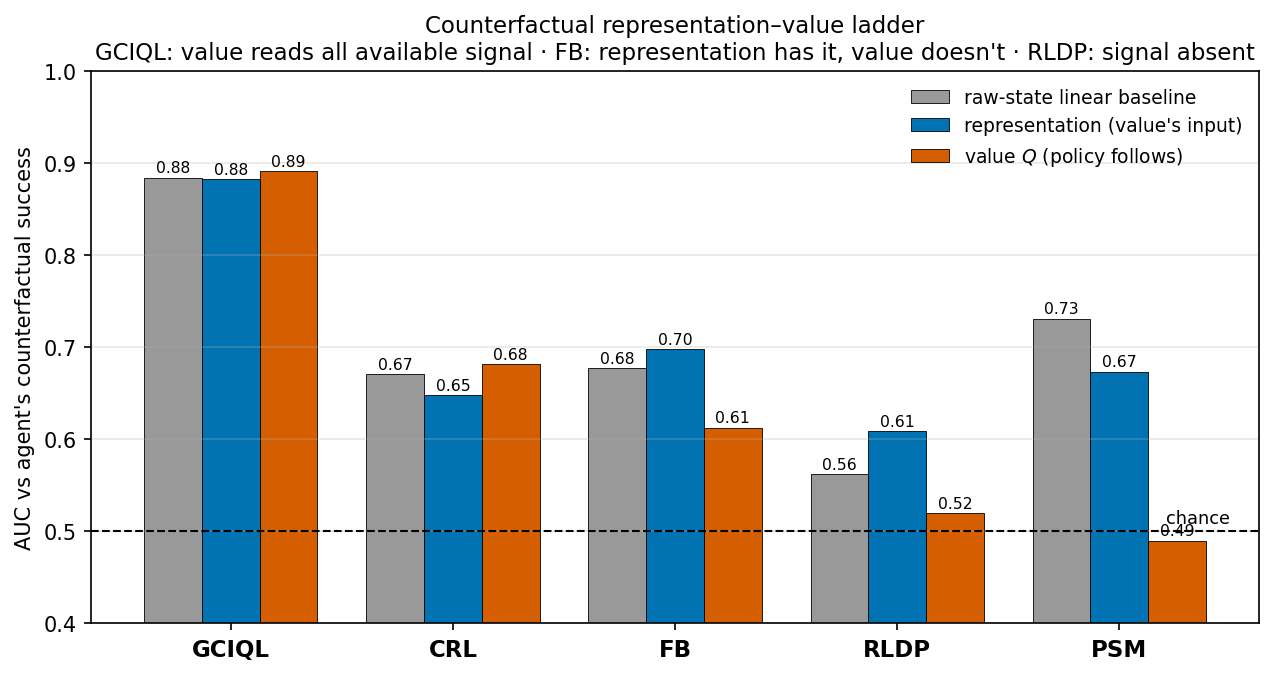
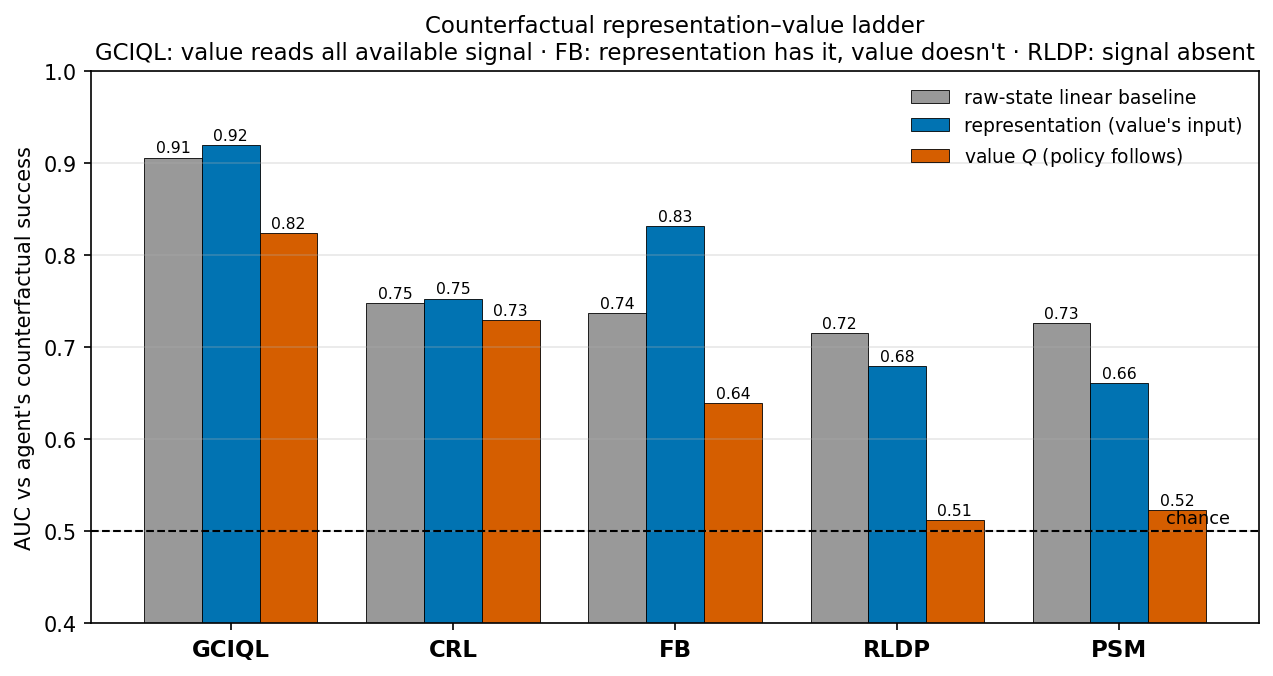
docs(rlbrew): recompute counterfactual value on flow actor (K=10) + figure/table consistency
Recompute tab:cf_value and the §5.3 value-ranking analysis on the FQL-BC (flow)
checkpoints with K=10 continuation labels (the flow policy is stochastic, so a
single rollout is a noisy draw). The paper's old 0.89 GCIQL cf-value came from the
DDPG+BC (non-flow) checkpoint; the flow-consistent value is 0.82. Full 5-method
table + representation-value ladder updated (fb readout 0.83 vs value 0.64, etc.).

- Regenerate fig_cf_value_curve_new / fig_cf_ladder_new from the K=10 records.
- Harmonize phase labels across figures/text: outcomes "Grasp fail" -> "Control-acq.
  fail"; funnel axis -> Approach / Control acquisition / Maintain control / Transport.
- Sync figure-script OUTCOMES + SUPPORT_DELTA to the appendix tables (fixes a stale
  non-flow dict that would have regressed the numbers on re-run); fb pickup Tf-S 0.25.
- Narrative edits to conclusion / related-work / theory.

diff --git a/PAPER/rlbrew/content/related-work.tex b/PAPER/rlbrew/content/related-work.tex
@@ -2,19 +2,20 @@
 \label{sec:related}
 
 \paragraph{Unsupervised and goal-conditioned RL.}
-URL methods learn reusable control objects in a reward-free or reward-agnostic phase and reuse them for downstream goals.
-Goal-conditioned methods learn values or policies indexed by target states~\citep{eysenbach-iclr21a,ma-neurips22a}, while contrastive and metric-based methods learn state-goal scores or representations that distinguish future states from negatives~\citep{eysenbach-neurips22a,wang-icml23a,park-iclr24a}.
-Successor representations, successor features, and FB representations estimate future-occupancy objects that can be combined with downstream rewards~\citep{dayan-nc93a,barreto-neurips17a,touati-neurips21a,touati-iclr23a}.
+URL methods learn policies, values, or representations in a reward-free or reward-agnostic phase and reuse them for downstream goals.
+Goal-conditioned methods learn values or policies indexed by target states~\citep{eysenbach-iclr21a,ma-neurips22a}, while contrastive and metric-based methods learn goal-conditioned values or representations by distinguishing future states from negatives~\citep{eysenbach-neurips22a,wang-icml23a,park-iclr24a}.
+Successor representations, successor features, and FB representations estimate future-state occupancy that can be combined with downstream rewards~\citep{dayan-nc93a,barreto-neurips17a,touati-neurips21a,touati-iclr23a}.
 Proto-value and proto-successor methods instead use learned bases or spectral structure to represent behavior or value spaces~\citep{mahadevan-icml05a,mahadevan-jmlr07a,farebrother-iclr23a,agarwal-arxiv25a}.
-Recent work has argued that many URL objectives can be viewed as tractable approximations to successor measures or future-reachability objects~\citep{agarwal-rlj25a}.
-Our work uses this view diagnostically: we ask whether these learned objects preserve local interaction modes that change successor structure, rather than proposing a new URL objective.
+Recent work has argued that many URL objectives can be viewed as tractable approximations to successor measures~\citep{agarwal-rlj25a}.
+Our work uses this view diagnostically: we ask whether learned values and representations distinguish interaction states that change future occupancy,
+rather than proposing a new URL objective.
 
 \paragraph{Structured and controllable representations.}
 Classical factored MDP work exploits state structure to make planning and learning more efficient~\citep{boutilier-ijcai95a,kearns-ijcai99a,guestrin-jair03a}; see also \cite{mohan-jair24a}.
 More recent controllable-representation methods aim to preserve action-relevant state information, often through inverse or multi-step inverse dynamics objectives~\citep{efroni-iclr22a,lamb-arxiv22a,levine-arxiv24a,rudolph-rlc24a}.
-These works are closely related to our interaction-mode view: the relevant abstraction should retain variables that change how actions affect future states.
+These works are closely related to our interaction-state hypothesis: the relevant abstraction should retain variables that change how actions affect future states.
 Our contribution is different in scope.
-We do not learn a new abstraction or assume a known factorization; instead, we diagnose whether existing state-based URL scores collapse observation-near states whose long-horizon futures differ because of local interaction variables.
+We do not learn a new abstraction or assume a known factorization; instead, we diagnose whether existing state-based URL methods map nearby states with different long-horizon futures to similar representations or values.
 
 \paragraph{Contact-rich dynamics and manipulation.}
 Contact-rich manipulation is a canonical setting where local interaction variables change effective dynamics.
@@ -22,10 +23,10 @@ Classical work on pushing and manipulation emphasizes that contact mode, frictio
 Trajectory-optimization and contact-implicit methods explicitly model or optimize through contact transitions~\citep{posa-ijrr14a,manchester-isrr17a,patel-ral19a,aceituno-rss20a,jin-arxiv24a}.
 Learning-based contact models also study the difficulty of representing discontinuous or hybrid contact dynamics~\citep{hogan-arxiv16a,pfrommer-corl20a}.
 Our paper does not propose a contact model.
-Instead, we use contact-rich cube manipulation as a controlled diagnostic for a broader URL question: whether learned future-reachability scores preserve interaction-conditioned successor distinctions.
+Instead, we use contact-rich cube manipulation as a controlled diagnostic for a broader URL question: whether learned values and representations distinguish grasp states with different future occupancies.
 
 \paragraph{Offline goal-conditioned benchmarks and diagnostics.}
 Offline goal-conditioned RL evaluates whether policies or representations learned from static data can solve downstream goals without additional online collection~\citep{kostrikov-iclr22a,ma-neurips22a,park-iclr25a}.
 Benchmarks such as \ogbench{} report aggregate goal-reaching success, which is useful for comparing algorithms but does not identify the physical stage at which a policy fails~\citep{park-iclr25a}.
 Our diagnostic decomposes manipulation rollouts into approach, control acquisition, maintained control, and transport.
-This separates coarse reachability from the local interaction transition and from the ability to preserve and exploit that interaction regime.
+This separates approach and control acquisition from the ability to maintain control and transport the object.

diff --git a/PAPER/rlbrew/content/results.tex b/PAPER/rlbrew/content/results.tex
@@ -81,19 +81,19 @@ Each grasp is evaluated independently, and the probe covers states from the offl
 We then plot success rate as a function of the learned value percentile.
 We summarize ranking quality using rank-AUC, the probability that a successful grasp state receives a higher value than an unsuccessful grasp state.
 Because the success labels are generated separately under each method's own policy, this probe measures whether a method's value is consistent with its own downstream outcomes rather than comparing all methods against a single shared target.
-\gciql{}'s value is strongly predictive (rank-AUC $0.89$): its top-value grasps succeed ${\approx}99\%$ of the time, its bottom-value grasps ${\approx}27\%$.
-For \rldp{} and \psm{}, the curves are nearly flat (AUC $0.52$ and $0.49$), indicating that higher values do not correspond to higher success rates.
-\fb{} shows a weaker relationship (AUC approximately $0.61$), while \crl{} is intermediate ($0.68$).
+\gciql{}'s value is the most predictive (rank-AUC $0.82$): its top-value grasps succeed ${\approx}99\%$ of the time, its bottom-value grasps ${\approx}54\%$.
+For \rldp{} and \psm{}, the curves are nearly flat (AUC $0.51$ and $0.52$), indicating that higher values do not correspond to higher success rates.
+\fb{} shows a weaker relationship (AUC approximately $0.64$), while \crl{} is intermediate ($0.73$).
 For \fb{} and \rldp{}, the learned value is therefore only weakly informative about whether the policy will maintain control and complete the task.
 
 We next ask whether the weak ranking arises in the learned representation or in the scalar value derived from it.
 Using each agent's simulator-reset success labels, we fit a linear readout from the learned representation and compare its ranking with that of the learned value (Appendix~\ref{app:tables}, Figure~\ref{fig:cf_ladder}).
 The probe suggests different bottlenecks for \fb{}, \rldp{}, and \psm{}.
-\fb{} is consistent with a readout bottleneck: a linear readout of its forward map reaches AUC 0.70, while its learned scalar value reaches 0.61.
+\fb{} is consistent with a readout bottleneck: a linear readout of its forward map reaches AUC 0.83, while its learned scalar value reaches only 0.64.
 \rldp{} is consistent with a representation bottleneck: the best readout reaches only
-0.61, and its learned value reaches 0.52.
-\psm{} shows the largest collapse from the raw-state baseline to the learned value: although its backward embedding resolves cube-to-goal geometry best of any method (nonlinear $R^2$ $0.90$; Table~\ref{tab:geometry_control}), a linear readout of the representation its value uses does not exceed the raw-state baseline for counterfactual success ($0.67$ versus $0.73$), and the value itself ranks near chance ($0.49$). Resolving cube-to-goal geometry therefore does not imply that the representation encodes which grasps the policy will keep.
-For \gciql{}, the learned value preserves nearly all of the linearly decodable signal available in its value features, reaching AUC $0.89$.
+0.68, barely above the raw-state baseline ($0.72$), and its learned value reaches 0.51.
+\psm{} shows the same pattern more sharply: although its backward embedding resolves cube-to-goal geometry best of any method (nonlinear $R^2$ $0.90$; Table~\ref{tab:geometry_control}), a linear readout of the representation its value uses does not exceed the raw-state baseline for counterfactual success ($0.66$ versus $0.73$), and the value itself ranks near chance ($0.52$). Resolving cube-to-goal geometry therefore does not imply that the representation encodes which grasps the policy will keep.
+For \gciql{}, the learned value retains most of the linearly decodable signal available in its value features (readout $0.92$, value $0.82$), the strongest value ranking under this diagnostic.
 
 These probes suggest that weak ranking can arise either in the learned representation or in the scalar readout, but they do not identify the readout form as the sole cause.
 \gciql{} differs from \fb{}, \crl{}, \rldp{}, and \psm{} in objective, actor training, critic architecture, implicit regularization, and optimization stability, not only in its value readout.

diff --git a/PAPER/rlbrew/content/appendix.tex b/PAPER/rlbrew/content/appendix.tex
@@ -112,17 +112,17 @@ Because the labels are generated separately under each method's own policy, the 
 
 \begin{table}[H]
 \centering
-\caption{On-policy counterfactual value test. We reset $200$ in-hand grasp states in the simulator, roll out each agent's own policy, and report the learned value's rank-AUC against the agent's own success, computed per goal and averaged across goals, together with the mean counterfactual success rate.}
+\caption{On-policy counterfactual value test. We reset $200$ in-hand grasp states in the simulator and roll out each agent's own (flow) policy for $K=10$ independent continuations per grasp, labeling the grasp by the fraction that reaches the goal (the flow policy is stochastic, so a single rollout is a noisy draw). We report the learned value's rank-AUC against this success label, computed per goal, averaged across goals and across the method's flow-actor training seeds ($9$--$10$ seeds), together with the mean counterfactual success rate.}
 \label{tab:cf_value}
 \begin{tabular}{lcc}
 \toprule
 \textbf{Method} & \textbf{Counterfactual rank-AUC} & \textbf{Counterfactual success rate} \\
 \midrule
-\gciql{} & $0.89$ & $0.66$ \\
-\crl{}   & $0.68$ & $0.38$ \\
-\fb{}    & $0.61$ & $0.55$ \\
-\rldp{}  & $0.52$ & $0.21$ \\
-\psm{}   & $0.49$ & $0.32$ \\
+\gciql{} & $0.82$ & $0.79$ \\
+\crl{}   & $0.73$ & $0.37$ \\
+\fb{}    & $0.64$ & $0.54$ \\
+\rldp{}  & $0.51$ & $0.23$ \\
+\psm{}   & $0.52$ & $0.23$ \\
 \bottomrule
 \end{tabular}
 \end{table}
@@ -134,6 +134,6 @@ preserves that information in its ranking.
 \begin{figure}[H]
 \centering
 \includegraphics[width=0.8\linewidth]{fig_cf_ladder_new.png}
-\caption{Counterfactual representation--value ladder. For each method, the probe uses the agent's own counterfactual success as the label. We compare a raw-state linear baseline, the best linear readout of the representation used by the scalar value (\gciql{} penultimate value features; \crl{} $\phi(s,\pi)$; \fb{}/\rldp{}/\psm{} the successor-feature map $F(s,\pi,z)$, which for \psm{} is $\psi(s,\pi,z)$), and the learned value's own ranking. \gciql{} preserves nearly all linearly decodable signal available in its value features; \fb{} contains more signal in $F$ than is reflected in the learned scalar value; \rldp{} contains weaker signal under this probe; \psm{} resolves cube-to-goal geometry best (Table~\ref{tab:geometry_control}) yet its representation readout does not exceed the raw baseline and its value ranks near chance. The raw baseline is per-agent because counterfactual success depends on each policy, so the cleanest comparison is within method.}
+\caption{Counterfactual representation--value ladder. For each method, the probe uses the agent's own counterfactual success as the label. We compare a raw-state linear baseline, the best linear readout of the representation used by the scalar value (\gciql{} penultimate value features; \crl{} $\phi(s,\pi)$; \fb{}/\rldp{}/\psm{} the successor-feature map $F(s,\pi,z)$, which for \psm{} is $\psi(s,\pi,z)$), and the learned value's own ranking. \gciql{} retains most of the linearly decodable signal available in its value features; \fb{} contains more signal in $F$ than is reflected in the learned scalar value; \rldp{} contains weaker signal under this probe; \psm{} resolves cube-to-goal geometry best (Table~\ref{tab:geometry_control}) yet its representation readout does not exceed the raw baseline and its value ranks near chance. The raw baseline is per-agent because counterfactual success depends on each policy, so the cleanest comparison is within method.}
 \label{fig:cf_ladder}
 \end{figure}

diff --git a/PAPER/rlbrew/content/theory.tex b/PAPER/rlbrew/content/theory.tex
@@ -4,10 +4,10 @@
 We now formalize the interaction-state hypothesis behind our analysis.
 Because the interaction state is part of the full physical state, the exact successor measure reflects its effect on future occupancy.
 Approximation error can arise when the physical state is compressed into an observation or learned representation.
-Let $y=\Omega(\tilde{s})$ denote the state encoding used by the policy or value function, and let $\iota(\tilde{s})$ denote the local interaction state, such as whether an object is freely moving, stably held, or slipping.
+Let $\tilde{s}\in\widetilde{\mathcal S}$ denote the full physical state, and let $y=\Omega(\tilde{s})$ denote the state encoding used by the policy or value function, with $\iota(\tilde{s})$ denoting the local interaction state, such as whether an object is freely moving, stably held, or slipping.
 Here, $\Omega$ may denote either the observation map or a learned representation.
-Two full states can be nearby in observation space while having different interaction states and therefore different successor measures.
-The relevant question is which interaction-state distinctions are lost in the observation, learned representation, or values.
+Two full states can be nearby in representation space while having different interaction states and therefore different successor measures.
+The relevant question is which interaction-state distinctions are lost in the learned representation, and corresponding value-functions.
 We illustrate this distinction by describing how interaction state changes the transition dynamics.
 
 \subsection{Interaction-dependent transition dynamics}
@@ -91,7 +91,7 @@ Thus, if stable and unstable grasp states receive the same observation or repres
 Overestimating unstable grasp states can cause the actor to prefer actions that lift the cube but do not maintain control during transport.
 
 This information loss may occur either in the learned representation or in the scalar readout.
-A bilinear value can express the distinction only if the representation encodes the relevant interaction-state information and the task-conditioned readout uses it.
+A bilinear value parameterization can express the distinction  only if the representation encodes the relevant interaction-state information and the task-conditioned readout uses it.
 Our empirical probes therefore ask whether the learned representation contains information about task success from in-hand grasp states and whether the scalar value preserves that information.
 
 \subsection{Instantiation in cube manipulation}
@@ -110,7 +110,7 @@ For goal $g$, we use the task-specific event
         \tilde{s}_H\in G_g
     \},
 \end{equation}
-where $A$ is the reaching set, $C$ is the control-acquisition set, $R$ is the final-retention set, and $G_g$ is the goal set.
+where $\tau_A=\inf\{t:\tilde{s}_t\in A\}$, $A$ is the reaching set, $C$ is the control-acquisition set, $R$ is the final-retention set, and $G_g$ is the goal set.
 The corresponding task-success probability is
 \begin{equation}
     u^\pi_H(\tilde{s},a;g) = \Pr_\pi
@@ -123,5 +123,3 @@ The corresponding task-success probability is
         \tilde{s}_0=\tilde{s},a_0=a
     \right).
 \end{equation}
-where $\tau_A=\inf\{t:\tilde{s}_t\in A\}$, $A$ is the reaching set, $C$ is the control-acquisition set, $R$ is the final-retention set, and $G_g$ is the goal set.
-A maintain-control failure means that the policy satisfied the control-acquisition criterion but did not end the episode with the cube above the retention threshold.

diff --git a/scripts/figures/plot_rlbrew_figures.py b/scripts/figures/plot_rlbrew_figures.py
@@ -46,16 +46,18 @@ def _present(d):
     have been filled in, without breaking panels that still lack it."""
     return [m for m in METHODS if m in d]
 
-# S0 terminal-outcome distribution (% episodes, mean over seeds).
+# Terminal-outcome distribution (% episodes, mean over seeds).
+# Values are the paper-canonical numbers in Table~tab:cross_method_outcomes
+# (flow actor, 1M); keep in sync with that table.
 OUTCOMES = {
-    "FB":    {"success": 49.4, "approach": 0.0, "grasp": 9.8,  "maintain": 23.8, "transport": 17.0},
-    "GCIQL": {"success": 69.2, "approach": 0.2, "grasp": 12.2, "maintain": 9.2,  "transport": 9.2},
-    "CRL":   {"success": 23.2, "approach": 0.4, "grasp": 23.8, "maintain": 28.6, "transport": 24.0},
-    "RLDP":  {"success": 25.4, "approach": 0.2, "grasp": 9.6,  "maintain": 44.0, "transport": 20.8},
-    "PSM":   {"success": 38.4, "approach": 1.0, "grasp": 19.2, "maintain": 35.4, "transport": 6.0},
+    "FB":    {"success": 49.4, "approach": 0.0, "grasp": 8.7,  "maintain": 24.9, "transport": 17.0},
+    "GCIQL": {"success": 73.7, "approach": 0.0, "grasp": 11.9, "maintain": 7.8,  "transport": 6.7},
+    "CRL":   {"success": 25.0, "approach": 0.9, "grasp": 25.2, "maintain": 26.3, "transport": 22.6},
+    "RLDP":  {"success": 21.3, "approach": 0.1, "grasp": 14.7, "maintain": 43.8, "transport": 20.1},
+    "PSM":   {"success": 37.3, "approach": 0.8, "grasp": 20.5, "maintain": 36.4, "transport": 5.0},
 }
 OUTCOME_KEYS = ["success", "approach", "grasp", "maintain", "transport"]
-OUTCOME_LAB = ["Success", "Approach fail", "Grasp fail", "Maintain fail", "Transport fail"]
+OUTCOME_LAB = ["Success", "Approach fail", "Control-acq. fail", "Maintain fail", "Transport fail"]
 # keep the semantics (success=green, maintain=vermillion, transport=blue, ...)
 # but draw from the colorblind palette
 OUTCOME_COL = {"success": _CB[2], "approach": _CB[4], "grasp": _CB[1],
@@ -64,7 +66,7 @@ OUTCOME_COL = {"success": _CB[2], "approach": _CB[4], "grasp": _CB[1],
 # Failure-minus-success nearest-neighbour distance (paper-canonical; cf. appendix
 # support table). Columns: pickup Mf-S, carry Mf-S, pickup Tf-S, carry Tf-S.
 SUPPORT_DELTA = {
-    "FB":    [0.38, 0.24, 0.26, 0.11],
+    "FB":    [0.38, 0.24, 0.25, 0.11],
     "GCIQL": [-0.05, -0.09, -0.04, 0.00],
     "CRL":   [1.83, 0.42, 0.58, 0.37],
     "RLDP":  [0.42, 0.43, 0.47, 0.58],
@@ -86,7 +88,7 @@ def _funnel_stages(o):
 def fig_funnel(out: Path) -> None:
     """4-stage phase funnel (survival lines), single panel."""
     fig, ax = plt.subplots(figsize=(5.4, 4.0))
-    stages = ["Reached", "Control\nacquired", "Control\nmaintained", "Goal\nreached"]
+    stages = ["Approach", "Control\nacquisition", "Maintain\ncontrol", "Transport"]
     x = np.arange(4)
     for m in _present(OUTCOMES):
         ax.plot(x, _funnel_stages(OUTCOMES[m]), "o-", color=MC[m], lw=2, label=m)
@@ -170,9 +172,9 @@ def fig_aliasing(out: Path) -> None:
 
 def main() -> int:
     OUT.mkdir(parents=True, exist_ok=True)
-    fig_funnel(OUT / "fig_funnel.png")
-    fig_outcomes(OUT / "fig_outcomes.png")
-    fig_support(OUT / "fig_support.png")
+    fig_funnel(OUT / "fig_funnel_new.png")
+    fig_outcomes(OUT / "fig_outcomes_new.png")
+    fig_support(OUT / "fig_support_new.png")
     fig_aliasing(OUT / "fig_aliasing.png")
     return 0
 

diff --git a/scripts/figures/plot_cf_value_curve.py b/scripts/figures/plot_cf_value_curve.py
@@ -38,10 +38,11 @@ NBINS = 6
 def _seed_curve(df):
     """Per-bin counterfactual success rate for one (seed's) records frame."""
     df = df.copy()
+    ycol = "p_succ" if "p_succ" in df.columns else "success"   # K=10 soft label if present
     df["pct"] = df.groupby("task")["value"].rank(pct=True)
     bins = np.linspace(0, 1, NBINS + 1)
     df["b"] = np.clip(np.digitize(df["pct"], bins) - 1, 0, NBINS - 1)
-    g = df.groupby("b")["success"].mean()
+    g = df.groupby("b")[ycol].mean()
     y = np.full(NBINS, np.nan)
     y[g.index.to_numpy()] = g.to_numpy()
     return y
@@ -53,7 +54,9 @@ def main() -> int:
     ms = json.loads((REPSEP / "cf_value_multiseed.json").read_text()) \
         if (REPSEP / "cf_value_multiseed.json").exists() else {}
     for m, lab, col in METHODS:
-        seed_files = sorted(REPSEP.glob(f"cf_records_{m}_ms*.parquet"))
+        seed_files = sorted(REPSEP.glob(f"cf_records_{m}_k*.parquet"))       # K=10 flow records
+        if not seed_files:
+            seed_files = sorted(REPSEP.glob(f"cf_records_{m}_ms*.parquet"))   # legacy single-draw
         if seed_files:                                    # multiseed: mean +/- across-seed 95% CI
             curves = np.vstack([_seed_curve(pd.read_parquet(p)) for p in seed_files])
             y = np.nanmean(curves, axis=0)
@@ -72,13 +75,13 @@ def main() -> int:
     ax.set_xlabel("grasp value percentile  (low $\\rightarrow$ high value)", fontsize=11)
     ax.set_ylabel("counterfactual success rate\n(agent reaches goal from grasp)", fontsize=11)
     ax.set_xlim(0, 1); ax.set_ylim(0, 1)
-    ax.set_title("Does climbing the value buy success?\nGCIQL's value tracks "
-                 "controllability; the FB family's is nearly flat (aliased)\n"
-                 "mean over 10 seeds; band = 95% CI across seeds",
+    ax.set_title("Does climbing the value buy success?\n"
+                 "Counterfactual success vs. grasp-value percentile\n"
+                 "mean over seeds; band = 95% CI across seeds",
                  fontsize=11)
     ax.grid(True, alpha=0.3); ax.legend(fontsize=10, loc="upper left", title="method")
     fig.tight_layout()
-    out = OUT / "fig_cf_value_curve.png"
+    out = OUT / "fig_cf_value_curve_new.png"
     fig.savefig(out, dpi=150, bbox_inches="tight")
     plt.close(fig)
     print(f"[plot] wrote {out}")

diff --git a/scripts/value/cf_ladder_from_feat.py b/scripts/value/cf_ladder_from_feat.py
@@ -28,20 +28,25 @@ def main() -> int:
     from sklearn.metrics import roc_auc_score
     from scripts.probes.repsep_forward_probe import _auc
 
-    df = pd.read_parquet(REPO / f"analysis/value/repsep/cf_repfeat_{args.method}.parquet")
-    obs_cols = [c for c in df.columns if c.startswith("obs_")]
-    rep_cols = [c for c in df.columns if c.startswith("rep_")]
-    rows = {"raw": [], "rep": [], "Q": []}
-    for ti in sorted(df["task"].unique()):
-        d = df[df["task"] == ti]
-        y = d["success"].to_numpy(bool)
-        if y.sum() < 5 or (~y).sum() < 5:
-            for k in rows:
-                rows[k].append(np.nan)
-            continue
-        rows["raw"].append(_auc(d[obs_cols].to_numpy(np.float32), y))
-        rows["rep"].append(_auc(d[rep_cols].to_numpy(np.float32), y))
-        rows["Q"].append(roc_auc_score(y.astype(int), d["value"].to_numpy()))
+    repsep = REPO / "analysis/value/repsep"
+    files = sorted(repsep.glob(f"cf_repfeat_{args.method}_s*.parquet"))   # per-seed (K=10)
+    if not files:
+        files = [repsep / f"cf_repfeat_{args.method}.parquet"]           # legacy single-seed
+    rows = {"raw": [], "rep": [], "Q": []}                                # pooled over (seed, task)
+    for f in files:
+        df = pd.read_parquet(f)
+        obs_cols = [c for c in df.columns if c.startswith("obs_")]
+        rep_cols = [c for c in df.columns if c.startswith("rep_")]
+        for ti in sorted(df["task"].unique()):
+            d = df[df["task"] == ti]
+            # confident-continuation label from K rollouts (falls back to single-draw success)
+            y = ((d["p_succ"].to_numpy() >= 0.5) if "p_succ" in d.columns
+                 else d["success"].to_numpy(bool))
+            if y.sum() < 5 or (~y).sum() < 5:
+                continue
+            rows["raw"].append(_auc(d[obs_cols].to_numpy(np.float32), y))
+            rows["rep"].append(_auc(d[rep_cols].to_numpy(np.float32), y))
+            rows["Q"].append(roc_auc_score(y.astype(int), d["value"].to_numpy()))
     means = {k: float(np.nanmean(v)) for k, v in rows.items()}
     out = REPO / f"analysis/value/repsep/cf_ladder_{args.method}.json"
     out.write_text(json.dumps({"method": args.method, "label": "counterfactual",

diff --git a/PAPER/rlbrew/content/abstract.tex b/PAPER/rlbrew/content/abstract.tex
@@ -8,7 +8,7 @@ All methods almost always complete approach and most acquire control, but the lo
 State-support gaps broadly covary with performance: \gciql{} shows almost no gap between successful and failed rollout states, whereas, for every
 lower-performing method, failed pickup and carry states are farther from the offline data.
 However, when initialized from in-hand states sampled directly from the offline dataset, the lower-performing methods still weakly rank grasp states
-by eventual task success, while \gciql{} reaches a rank-AUC of $0.89$.
+by eventual task success, while \gciql{} reaches a rank-AUC of $0.82$.
 Linear probes further suggest that \fb{} contains task-success information that is not fully preserved by its scalar readout, whereas \rldp{} contains
 less linearly accessible information.
 Together, these findings show that effective successor-measure approximations for manipulation must not only reach and lift the object, but also assign

diff --git a/scripts/figures/plot_cf_ladder.py b/scripts/figures/plot_cf_ladder.py
@@ -58,7 +58,7 @@ def main() -> int:
     ax.legend(fontsize=9, loc="upper right", frameon=False)
     ax.grid(True, axis="y", alpha=0.3)
     fig.tight_layout()
-    out = OUT / "fig_cf_ladder.png"
+    out = OUT / "fig_cf_ladder_new.png"
     fig.savefig(out, dpi=150, bbox_inches="tight"); plt.close(fig)
     print(f"[plot] wrote {out}")
     return 0

diff --git a/PAPER/rlbrew/content/conclusion.tex b/PAPER/rlbrew/content/conclusion.tex
@@ -1,5 +1,4 @@
 \section{Conclusion}
-\label{sec:conclusion}
 
 We studied where state-based future-reachability methods fail in contact-rich cube manipulation.
 Our first step was to decompose each rollout into approach, control acquisition, maintained control, and transport.
